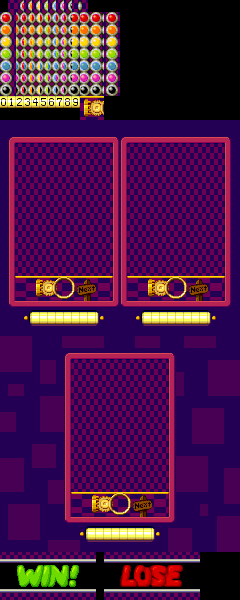
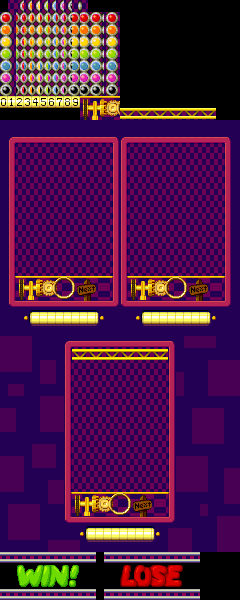
Main game loop, dropping bar for 1-player game.
git-svn-id: http://sources.cosam.org/svn/uzebox/bubble@593 becab9fe-04d6-0310-87a0-b233c6ee48ea

diff --git a/bubble.c b/bubble.c
@@ -34,6 +34,8 @@ typedef enum {
 	C_COUNT
 } colour_t;
 
+#define FPS 60
+
 // Number of first bubble tile in the set
 // (not literally, as first row is for blanks).
 #define BUBBLE_FIRST_TILE			0
@@ -55,7 +57,7 @@ typedef enum {
 #define BUBBLE_SLIVER_L				9
 #define BUBBLE_SLIVER_R				10
 
-#define FADE_SPEED			2
+#define FLIPPER_SPEED		2
 
 #define BUBBLE_WIDTH		12
 #define FIELD_OFFSET_X		2
@@ -72,12 +74,14 @@ typedef enum {
 
 #include "data/bg.inc"
 #include "data/sprites.inc"
+#include "data/title.inc"
 
 #define FIELD_BUBBLES_H		8
 #define FIELD_BUBBLES_V		11
 #define FIELD_TILES_H		12
 #define FIELD_TILES_V		11
 #define NUM_BUBBLES			83
+#define BUBBLE_ROWS			FIELD_TILES_V
 #define GEAR_ANIM_STEPS 	2
 
 // Pre-calcutated co-ordinates of arrow parts
@@ -127,6 +131,10 @@ const char traj_y[ANGLES] PROGMEM = {
 #define SPRITE_PROJ_L		6
 #define SPRITE_PROJ_R		8
 
+// Macriops for common calculations
+#define ROW_WIDTH(r)		(r%2 ? 7 : 8)
+#define FIRST_IN_ROW(r)		(((r/2)*15) + ((r%2)*8))
+
 // Structures
 typedef struct {
 	char angle;
@@ -137,7 +145,7 @@ typedef struct {
 
 // Globals
 #define PLAYERS 2
-unsigned char players = 2;
+unsigned char players = 1;
 unsigned char bubbles[PLAYERS][NUM_BUBBLES];
 unsigned char current[PLAYERS];
 unsigned char next[PLAYERS];
@@ -147,15 +155,20 @@ bool firing[PLAYERS];
 unsigned char block_left[PLAYERS];
 unsigned char block_right[PLAYERS];
 unsigned int frame = 0;
+// For 1-player game only.
+#define WOBBLE_SECONDS	5
+#define WOBBLE_DELAY	(1*FPS)
+int wobble_timer;
+unsigned char drop;
 
 
 void draw_field( unsigned char x_pos, unsigned char y_pos, unsigned char player ) {
 	unsigned char x,y,xp,yp,b=0;
 
-	for( y=0 ; y < FIELD_TILES_V ; y++ ) {
+	for( y=0 ; y+drop < FIELD_TILES_V ; y++ ) {
 		for( x=0 ; x < FIELD_TILES_H ; x++ ) {
 			xp = x_pos+x;
-			yp = y_pos+y;
+			yp = y_pos+y+drop;
 			// Reasonable default...
 			SetTile( xp, yp, BUBBLE_FIELD_TILE );
 			if( y%2 == 0 ) {
@@ -261,13 +274,61 @@ void new_bubble( unsigned char player ) {
 	}
 }
 
+bool drop_bubbles( unsigned char player ) {
+	int i;
+	bool bottomed_out = false;
+	unsigned char last_row = BUBBLE_ROWS-1-drop;
+	
+	// Check if lowest row had bubbles.
+	for( i = FIRST_IN_ROW(last_row) ; i < FIRST_IN_ROW(last_row)+ROW_WIDTH(last_row) ; i++ ) {
+		if( bubbles[player][i] != C_BLANK ) {
+			bottomed_out = true;
+		}
+		bubbles[player][i] = C_BLANK;
+	}
+
+	drop++;
+	if( drop >= BUBBLE_ROWS ) {
+		// Fell of bottom of screen...
+		bottomed_out = 1;
+	}
+	
+	return bottomed_out;
+}
+
+bool do_wobble( void ) {
+	int second = wobble_timer/FPS;
+	bool bottomed_out = false;
+	
+	if( second < WOBBLE_SECONDS ) {
+		int step = FPS/(second+2);
+		if( wobble_timer % step == 0 ) {
+			DrawMap2( (SCREEN_TILES_H-FIELD_TILES_H)/2, FIELD_OFFSET_Y+drop-1, map_drop_bar_shake );
+		}
+		else if( wobble_timer % step == step/2 ) {
+			DrawMap2( (SCREEN_TILES_H-FIELD_TILES_H)/2, FIELD_OFFSET_Y+drop-1, map_drop_bar_normal );
+		}
+	}
+	else {
+		bottomed_out = drop_bubbles(0);
+		
+		draw_field( (SCREEN_TILES_H-FIELD_TILES_H)/2, FIELD_OFFSET_Y, 0 );
+		DrawMap2( (SCREEN_TILES_H-FIELD_TILES_H)/2, FIELD_OFFSET_Y+drop-2, map_drop_bar_clear );
+		DrawMap2( (SCREEN_TILES_H-FIELD_TILES_H)/2, FIELD_OFFSET_Y+drop-1, map_drop_bar_normal );
+		
+		wobble_timer = -WOBBLE_DELAY;
+	}
+	return bottomed_out;
+}
+
 bool proc_controls( unsigned char player ) {
 	bool changed = false;
+	int buttons = ReadJoypad(player);
 	
 	if( block_left[player]  ) block_left[player]--;
 	if( block_right[player] ) block_right[player]--;
 	
-	if( ReadJoypad(player) & BTN_LEFT ) {
+	if( buttons & BTN_LEFT ) {
 		if( !block_left[player] ) {
 			// Rotate left
 			angle[(int)player]--;
@@ -283,7 +344,7 @@ bool proc_controls( unsigned char player ) {
 		block_left[player] = 0;
 	}
 	
-	if( ReadJoypad(player) & BTN_RIGHT ) {
+	if( buttons & BTN_RIGHT ) {
 		if( !block_right[player] ) {
 			// Rotate right
 			angle[(int)player]++;
@@ -299,7 +360,7 @@ bool proc_controls( unsigned char player ) {
 		block_right[player] = 0;
 	}
 	
-	if( ReadJoypad(player) & (BTN_A|BTN_B|BTN_X|BTN_Y) ) {
+	if( buttons & (BTN_A|BTN_B|BTN_X|BTN_Y) ) {
 		if( !firing[player] ) {
 			// Fire!
 			proj[player].angle = angle[player];
@@ -400,76 +461,166 @@ void update_arrow( unsigned char player ) {
 			draw_arrow(	FIELD_CENTRE_1P, ((FIELD_OFFSET_Y + FIELD_TILES_H)*TILE_HEIGHT), player );
 
 			if( angle[player] % GEAR_ANIM_STEPS == 0 ) {
-				DrawMap2( ((SCREEN_TILES_H-FIELD_TILES_H)/2)+2 , FIELD_OFFSET_Y+FIELD_TILES_V, map_gears1 );
+				DrawMap2( ((SCREEN_TILES_H-FIELD_TILES_H)/2) , FIELD_OFFSET_Y+FIELD_TILES_V, map_gears1 );
 			}
 			else {
-				DrawMap2( ((SCREEN_TILES_H-FIELD_TILES_H)/2)+2, FIELD_OFFSET_Y+FIELD_TILES_V, map_gears2 );
+				DrawMap2( ((SCREEN_TILES_H-FIELD_TILES_H)/2), FIELD_OFFSET_Y+FIELD_TILES_V, map_gears2 );
 			}
 		}
 		else {
 			draw_arrow( FIELD_CENTRE_2P(player), (FIELD_OFFSET_Y + FIELD_TILES_H) * TILE_HEIGHT, player );
 
 			if( angle[player] % GEAR_ANIM_STEPS == 0 ) {
-				DrawMap2( FIELD_OFFSET_X+2 + (P2_TILE_OFFSET*player), FIELD_OFFSET_Y+FIELD_TILES_V, map_gears1 );
+				DrawMap2( FIELD_OFFSET_X + (P2_TILE_OFFSET*player), FIELD_OFFSET_Y+FIELD_TILES_V, map_gears1 );
 			}
 			else {
-				DrawMap2( FIELD_OFFSET_X+2 + (P2_TILE_OFFSET*player), FIELD_OFFSET_Y+FIELD_TILES_V, map_gears2 );
+				DrawMap2( FIELD_OFFSET_X + (P2_TILE_OFFSET*player), FIELD_OFFSET_Y+FIELD_TILES_V, map_gears2 );
 			}
 		}
 	}
 }
 
+void draw_map_flipper( unsigned char xp, unsigned char yp, const char *map ) {
+	int w = pgm_read_byte( map );
+	int h = pgm_read_byte( map+1 );
+	int x,y;
+	
+	for( x=1 ; x<w ; x+=2 ) {
+		for( y=0 ; y<h ; y++ ) {
+			SetTile( xp+x, yp+y, pgm_read_byte( map + 2 + (y*w)+x ) );
+		}
+		WaitVsync(FLIPPER_SPEED);
+		for( y=0 ; y<h ; y++ ) {
+			SetTile( xp+x-1, yp+y, pgm_read_byte( map + 2 + (y*w)+x - 1 ) );
+		}
+		WaitVsync(FLIPPER_SPEED);
+	}
+}
+
+void clear_screen_flipper( void ) {
+	int x,y;
+	
+	for( x=1 ; x<SCREEN_TILES_H ; x+=2 ) {
+		for( y=0 ; y<SCREEN_TILES_V ; y++ ) {
+			SetTile( x, y, 0 );
+		}
+		WaitVsync(FLIPPER_SPEED);
+		for( y=0 ; y<SCREEN_TILES_V ; y++ ) {
+			SetTile( x-1, y, 0 );
+		}
+		WaitVsync(FLIPPER_SPEED);
+	}
+}
+
 int main(){
-	int p;
-	SetTileTable(bg_tiles);
-	SetSpritesTileTable(sprite_tiles);
-	ClearVram();
-	FadeOut(0,true);
+	int p = 0;
+	bool game_over;
 
-	for( p = 0 ; p < 24 ; p++ ) {
-		bubbles[0][p] = random()%C_COUNT;
-		bubbles[1][p] = random()%C_COUNT;
-	}
+	while(1) {	
+		SetTileTable(title_tiles);
+		SetSpritesTileTable(sprite_tiles);
+		ClearVram();
+		SetSpriteVisibility(false);
 
-	if( players == 1 ) {
-		DrawMap2( 0, 0, map_field_1p );
-		draw_field( (SCREEN_TILES_H-FIELD_TILES_H)/2, FIELD_OFFSET_Y, 0 );
-	}
-	else {
-		DrawMap2( 0, 0, map_field_2p );
-		draw_field( FIELD_OFFSET_X, FIELD_OFFSET_Y, 0 );
-		draw_field( SCREEN_TILES_H - FIELD_TILES_H - FIELD_OFFSET_X, FIELD_OFFSET_Y, 1 );
-	}
-
-	for( p=0 ; p<PLAYERS ; p++ ) {	
-		// Tile indeces of arrow parts.
-		sprites[SPRITE_ARROW+p].tileIndex = TILE_ARROW;
-		sprites[SPRITE_RING +p].tileIndex = TILE_RING;
-		sprites[SPRITE_RIVET+p].tileIndex = TILE_RIVET;
-
-		firing[p] = false;	
-		new_bubble(p); // Initialize next	
-		new_bubble(p); // Initialise current and next
-		update_projectile(p);
+		// Select number of players...
+		draw_map_flipper( 0, 0, map_player_select );
+		do {
+			int buttons;
 		
-		update_arrow(p);
-	}
-
-	FadeIn(FADE_SPEED,true);
-
-	while(1) {
-		WaitVsync(1);
-
-		for( p=0 ; p < players ; p++ ) {
-			if( proc_controls(p) ) {
-				update_arrow(p);
+			DrawMap2( 0, 0, map_player_select );
+			if( players == 1 ) {
+				DrawMap2( 2, 4, map_player_selector );
+				DrawMap2( 4, 6, map_1_player );
 			}
-			if( firing[p] ) {
-				update_projectile(p);
+			else {
+				DrawMap2( 16, 4, map_player_selector );
+				DrawMap2( 18, 6, map_2_player );
 			}
+		
+			while(ReadJoypad(0));
+		
+			buttons = 0;
+			while( !buttons ) {
+				 buttons = ReadJoypad(0);
+			}
+			if( buttons & (BTN_LEFT|BTN_RIGHT) ) {
+				players++;
+				if( players > 2 ) players = 1;
+			}
+			else if( buttons & BTN_START ) {
+				p = 1;
+			}
+		} while( p==0 );
+
+		clear_screen_flipper();
+		SetTileTable(bg_tiles);
+
+		for( p = 0 ; p < 23 ; p++ ) {
+			bubbles[0][p] = random()%C_COUNT;
+			bubbles[1][p] = random()%C_COUNT;
 		}
 
-		frame++;
+		if( players == 1 ) {
+			draw_map_flipper( 0, 0, map_field_1p );
+			draw_field( (SCREEN_TILES_H-FIELD_TILES_H)/2, FIELD_OFFSET_Y, 0 );
+		}
+		else {
+			draw_map_flipper( 0, 0, map_field_2p );
+			draw_field( FIELD_OFFSET_X, FIELD_OFFSET_Y, 0 );
+			draw_field( SCREEN_TILES_H - FIELD_TILES_H - FIELD_OFFSET_X, FIELD_OFFSET_Y, 1 );
+		}
+
+		for( p=0 ; p<PLAYERS ; p++ ) {	
+			// Tile indeces of arrow parts.
+			sprites[SPRITE_ARROW+p].tileIndex = TILE_ARROW;
+			sprites[SPRITE_RING +p].tileIndex = TILE_RING;
+			sprites[SPRITE_RIVET+p].tileIndex = TILE_RIVET;
+
+			firing[p] = false;	
+			new_bubble(p); // Initialize next	
+			new_bubble(p); // Initialise current and next
+			update_projectile(p);
+		
+			update_arrow(p);
+		}
+	
+		drop = 0;
+		wobble_timer = -WOBBLE_DELAY;
+		game_over = false;
+	
+		SetSpriteVisibility(true);
+
+		while(!game_over) {
+			WaitVsync(1);
+
+			for( p=0 ; p < players ; p++ ) {
+				if( proc_controls(p) ) {
+					update_arrow(p);
+				}
+				if( firing[p] ) {
+					update_projectile(p);
+				}
+				if( players == 1 && ++wobble_timer > 0 ) {
+					if( do_wobble() ) {
+						game_over = 1;
+					}
+				}
+			}
+
+			frame++;
+		}
+		
+		if( players == 1 ) {
+			DrawMap2( (SCREEN_TILES_H-FIELD_TILES_H)/2, FIELD_OFFSET_Y+(FIELD_TILES_V/2)-2, map_lose );
+		}
+		else {
+		
+		}
+		
+		while( ReadJoypad(0) == 0 && ReadJoypad(1) == 0 );
+		while( ReadJoypad(0) != 0 || ReadJoypad(1) != 0 );
+		SetSpriteVisibility(false);
+		clear_screen_flipper();
 	}
 }
 
